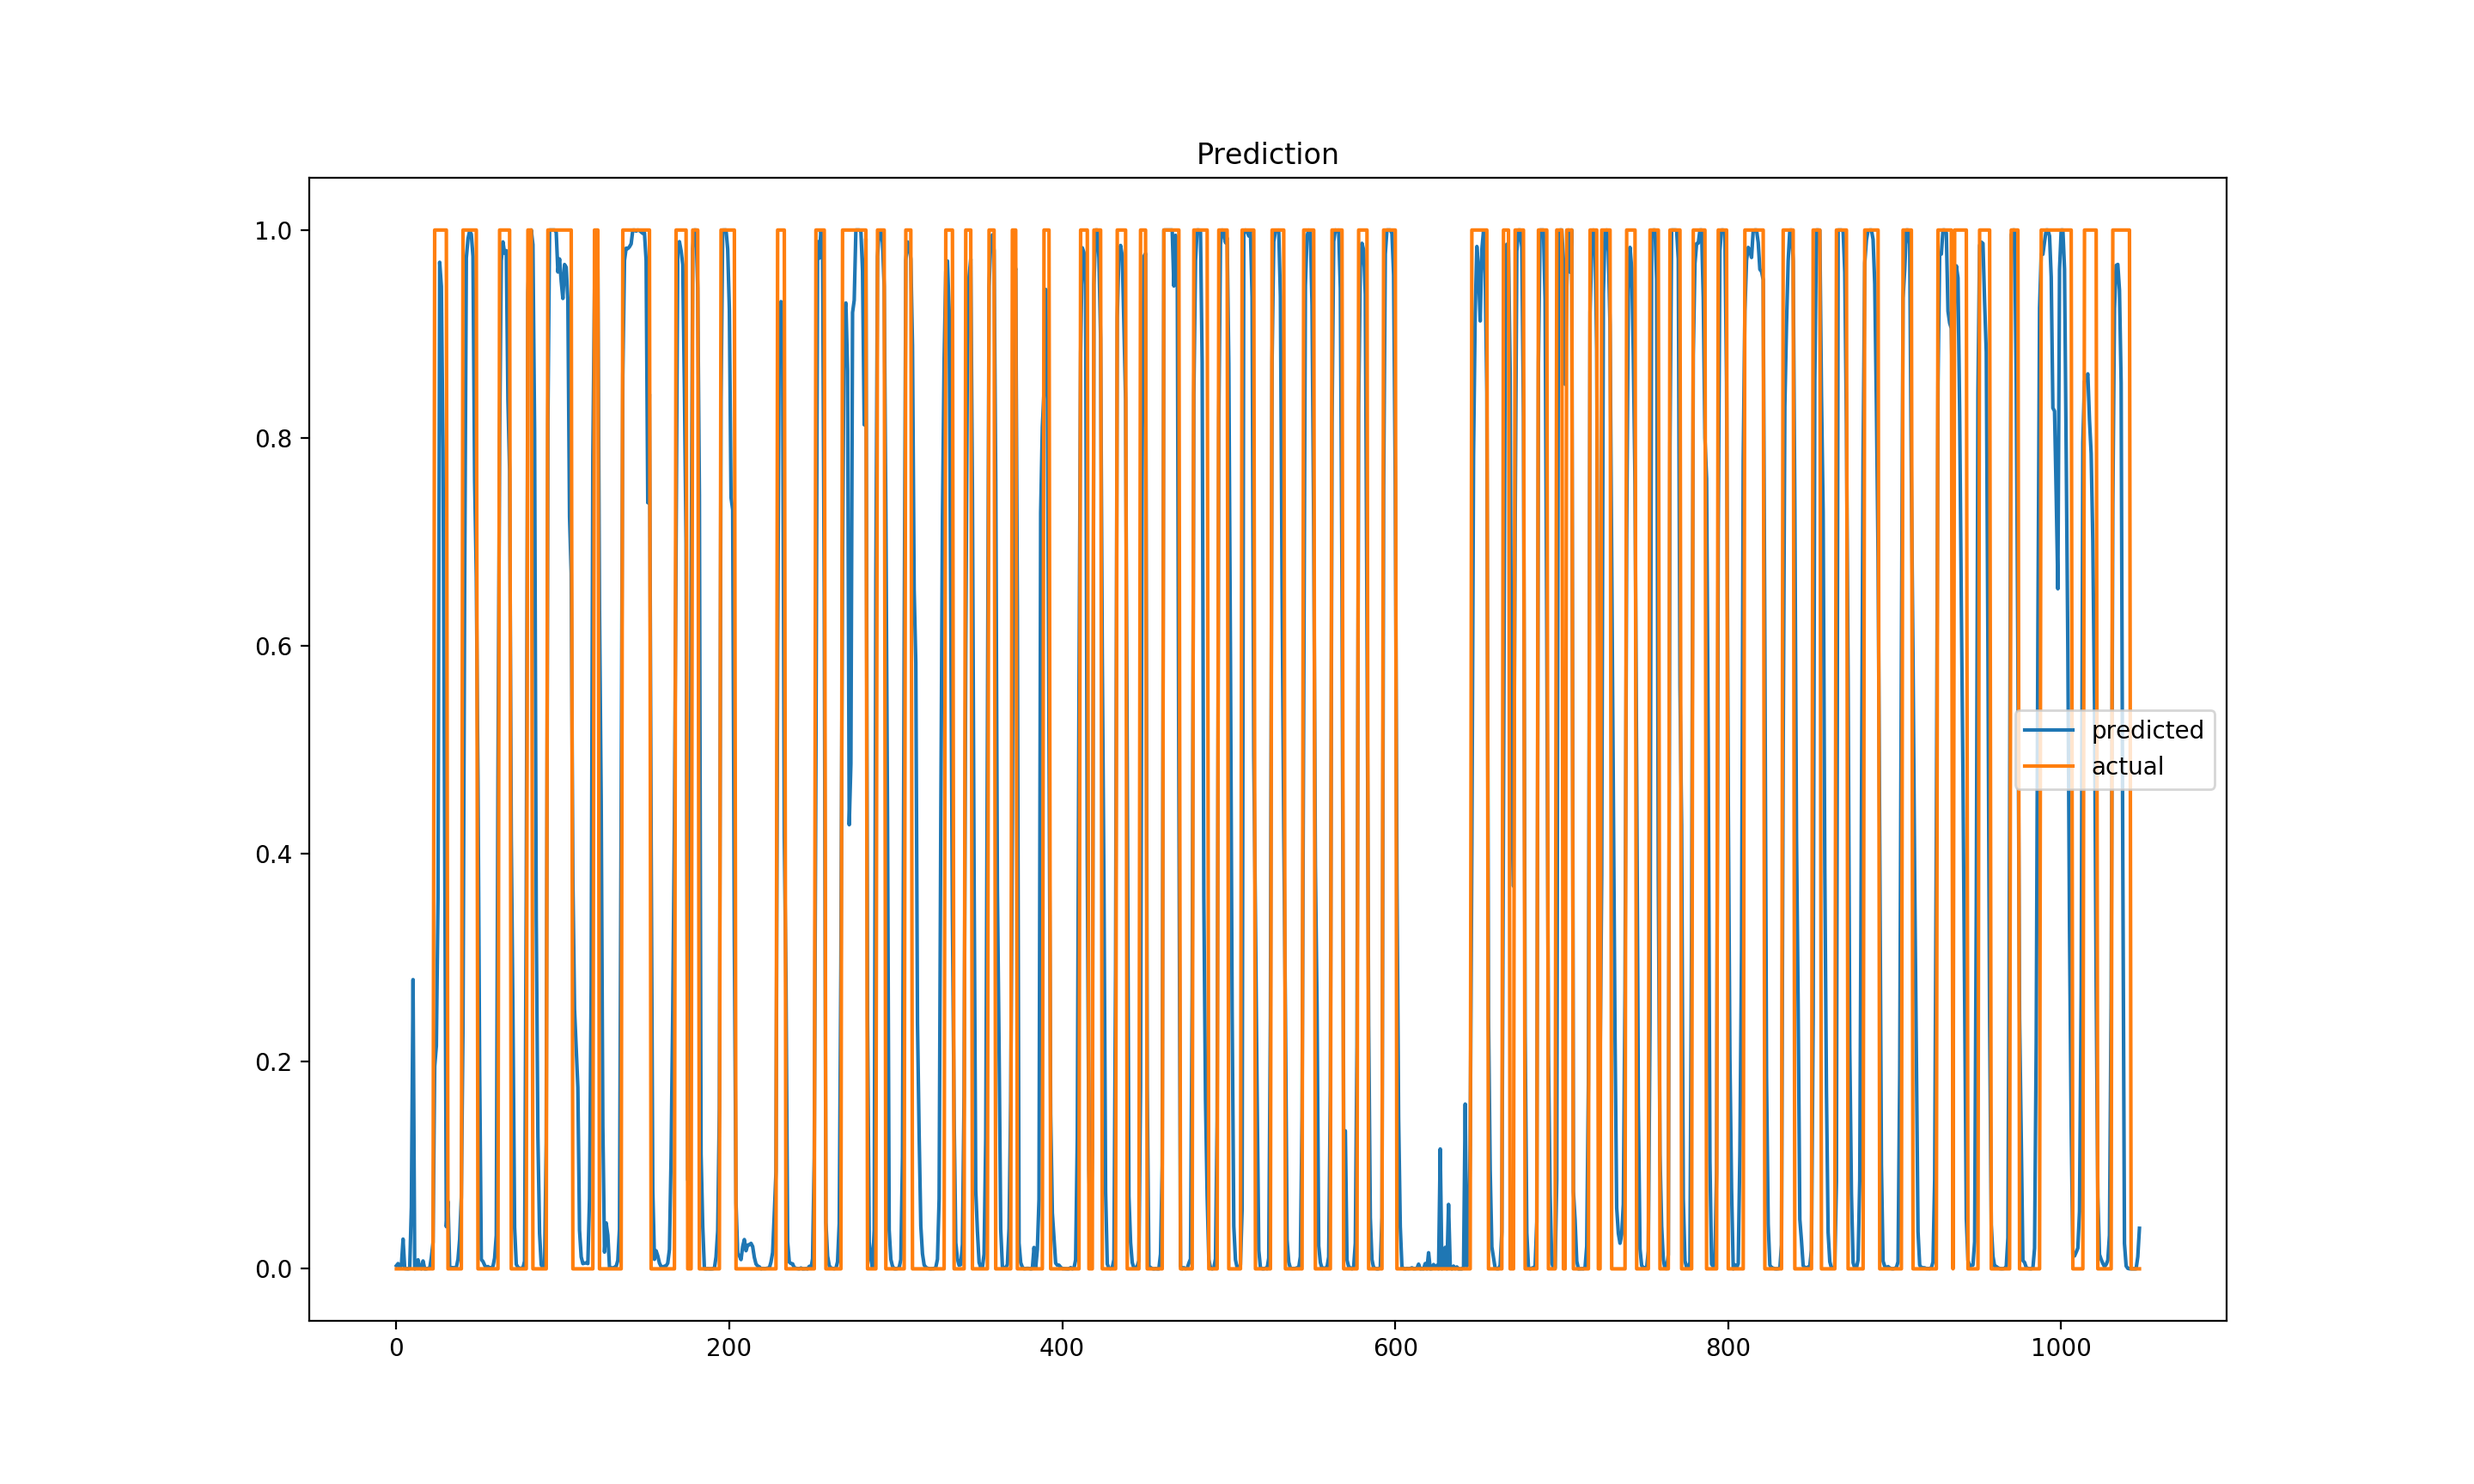
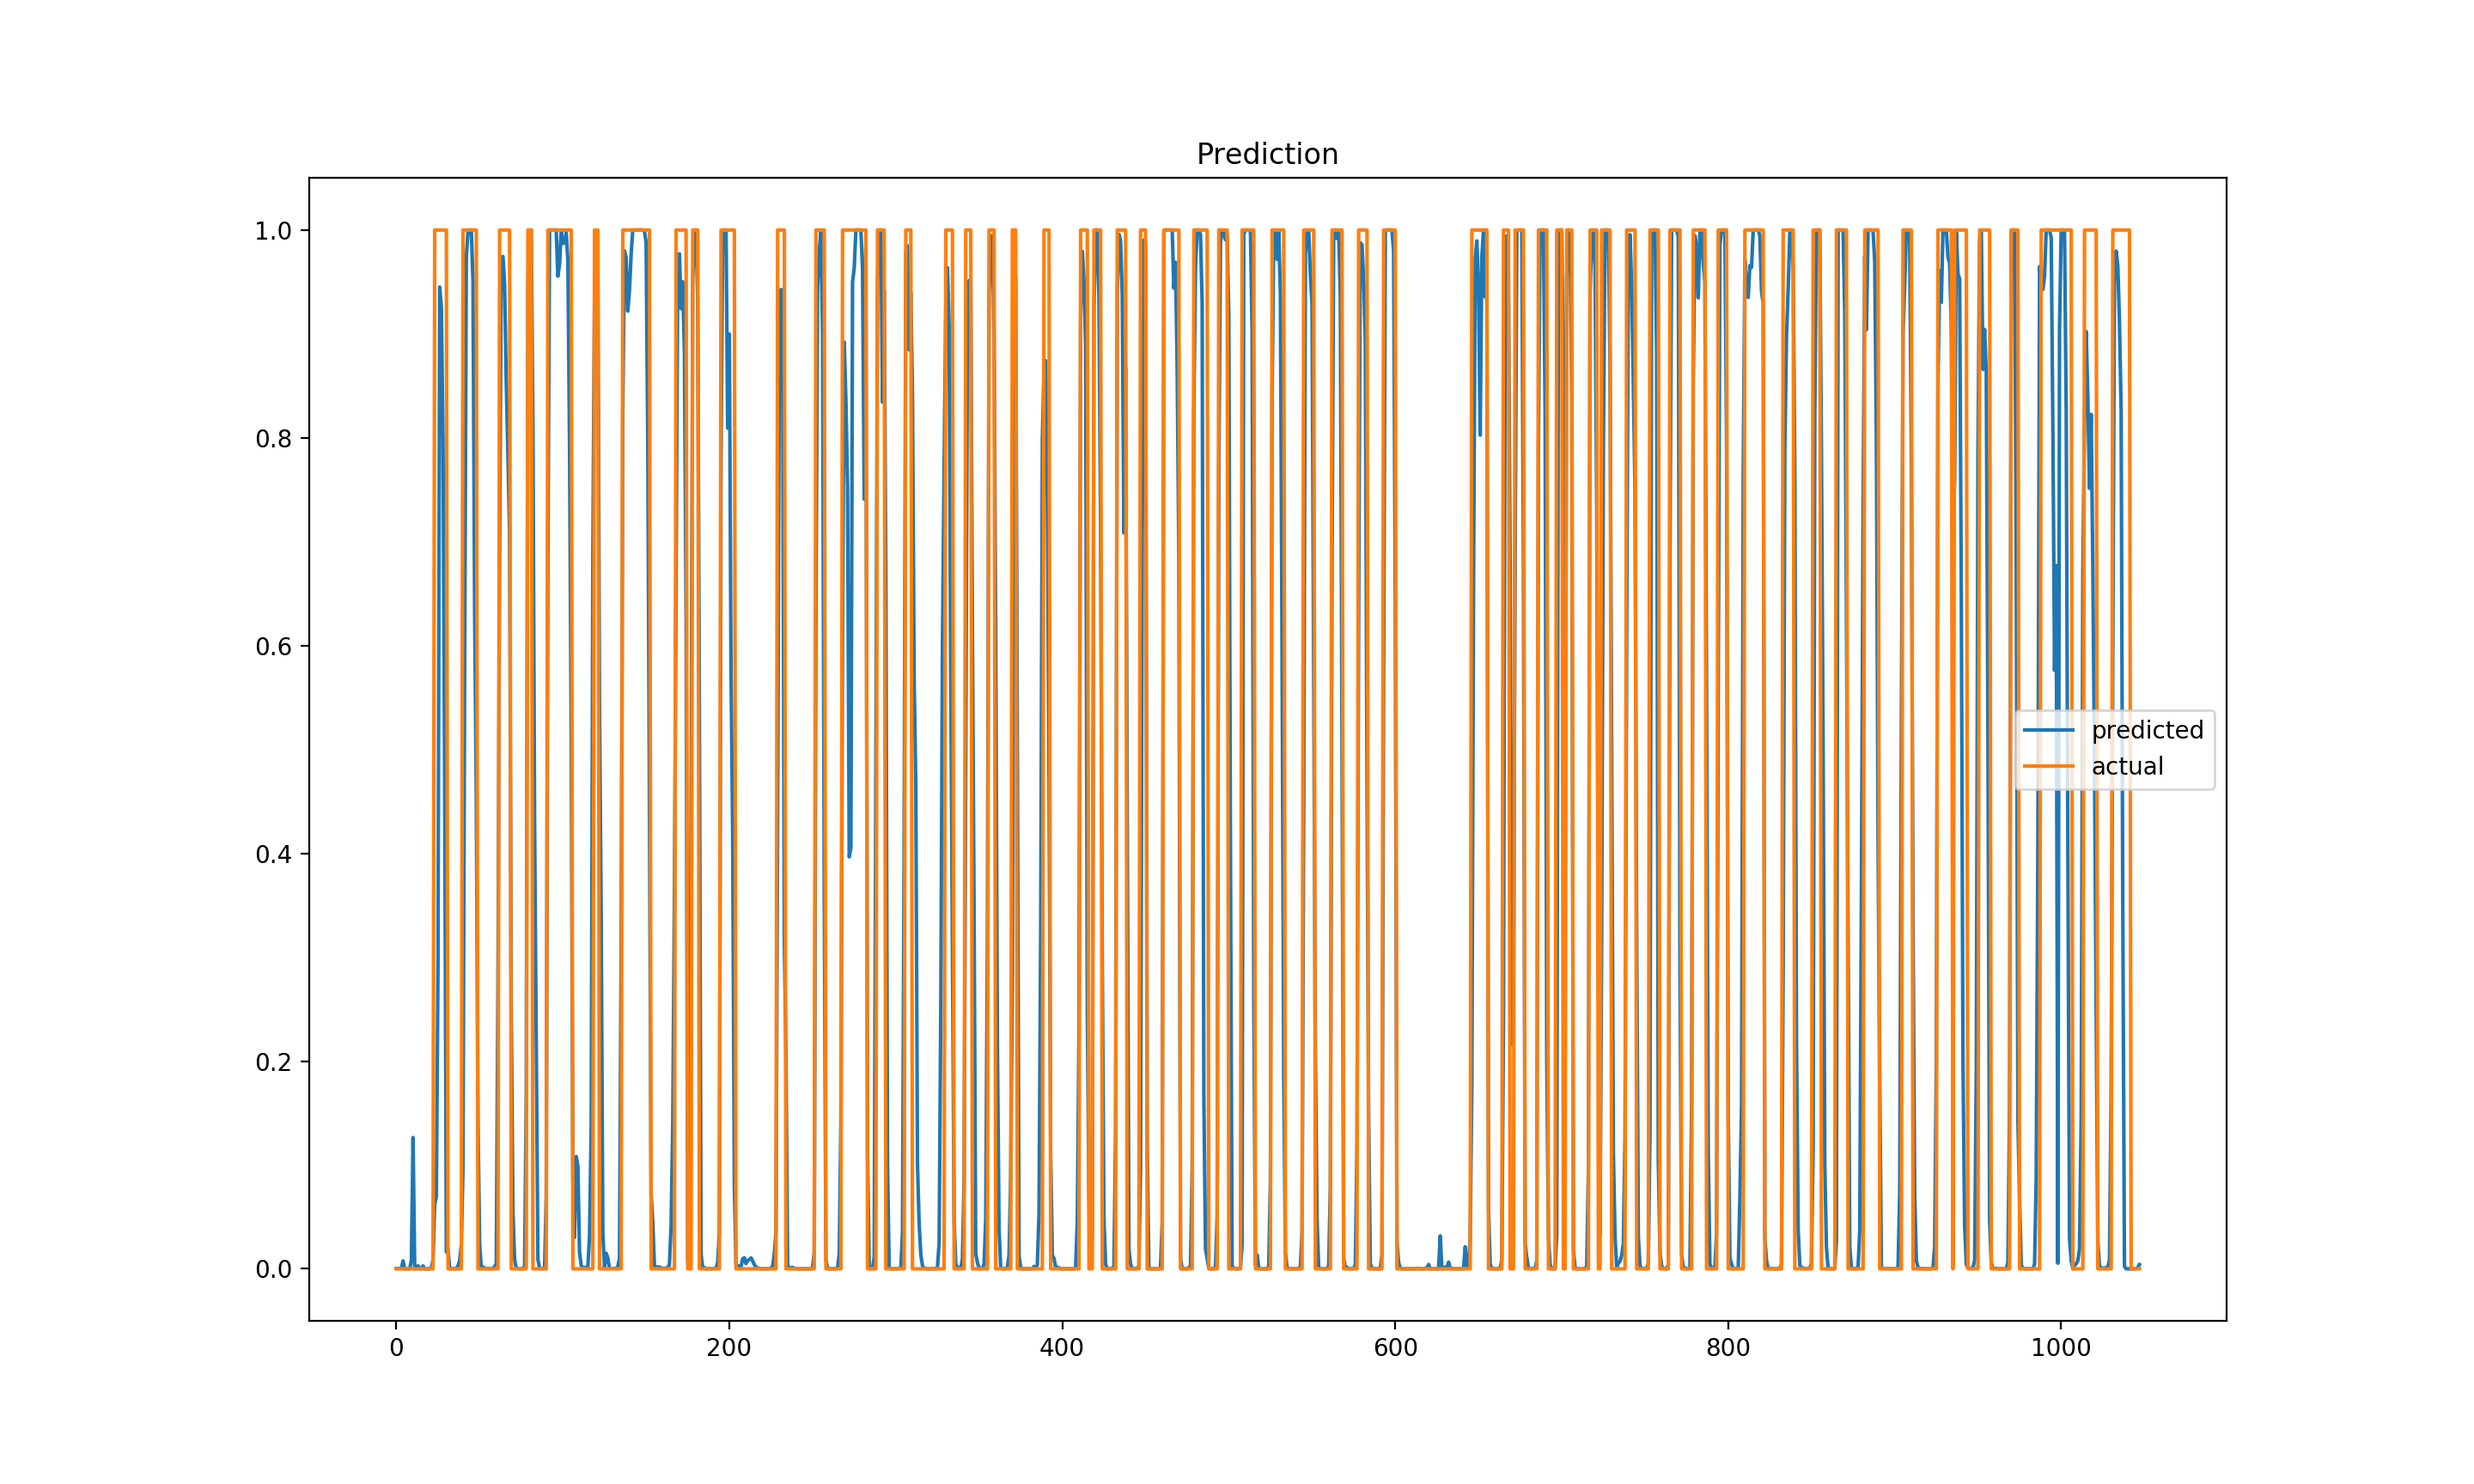
cnn updates + visualisation

diff --git a/model/tempCNN/cnn7/visualise.py b/model/tempCNN/cnn7/visualise.py
@@ -1,0 +1,16 @@
+import matplotlib.pyplot as plt
+import numpy as np
+
+
+label = np.load('./label_sigmoid.npy')
+predict = np.load('./predict_sigmoid.npy')
+
+y = label[800:1000]
+p = predict[800:1000]
+plt.plot(p)
+plt.plot(y)
+plt.title('Prediction')
+plt.legend(['predicted', 'actual'])
+plt.ylabel('Predicted value')
+plt.xlabel('time')
+plt.show()
